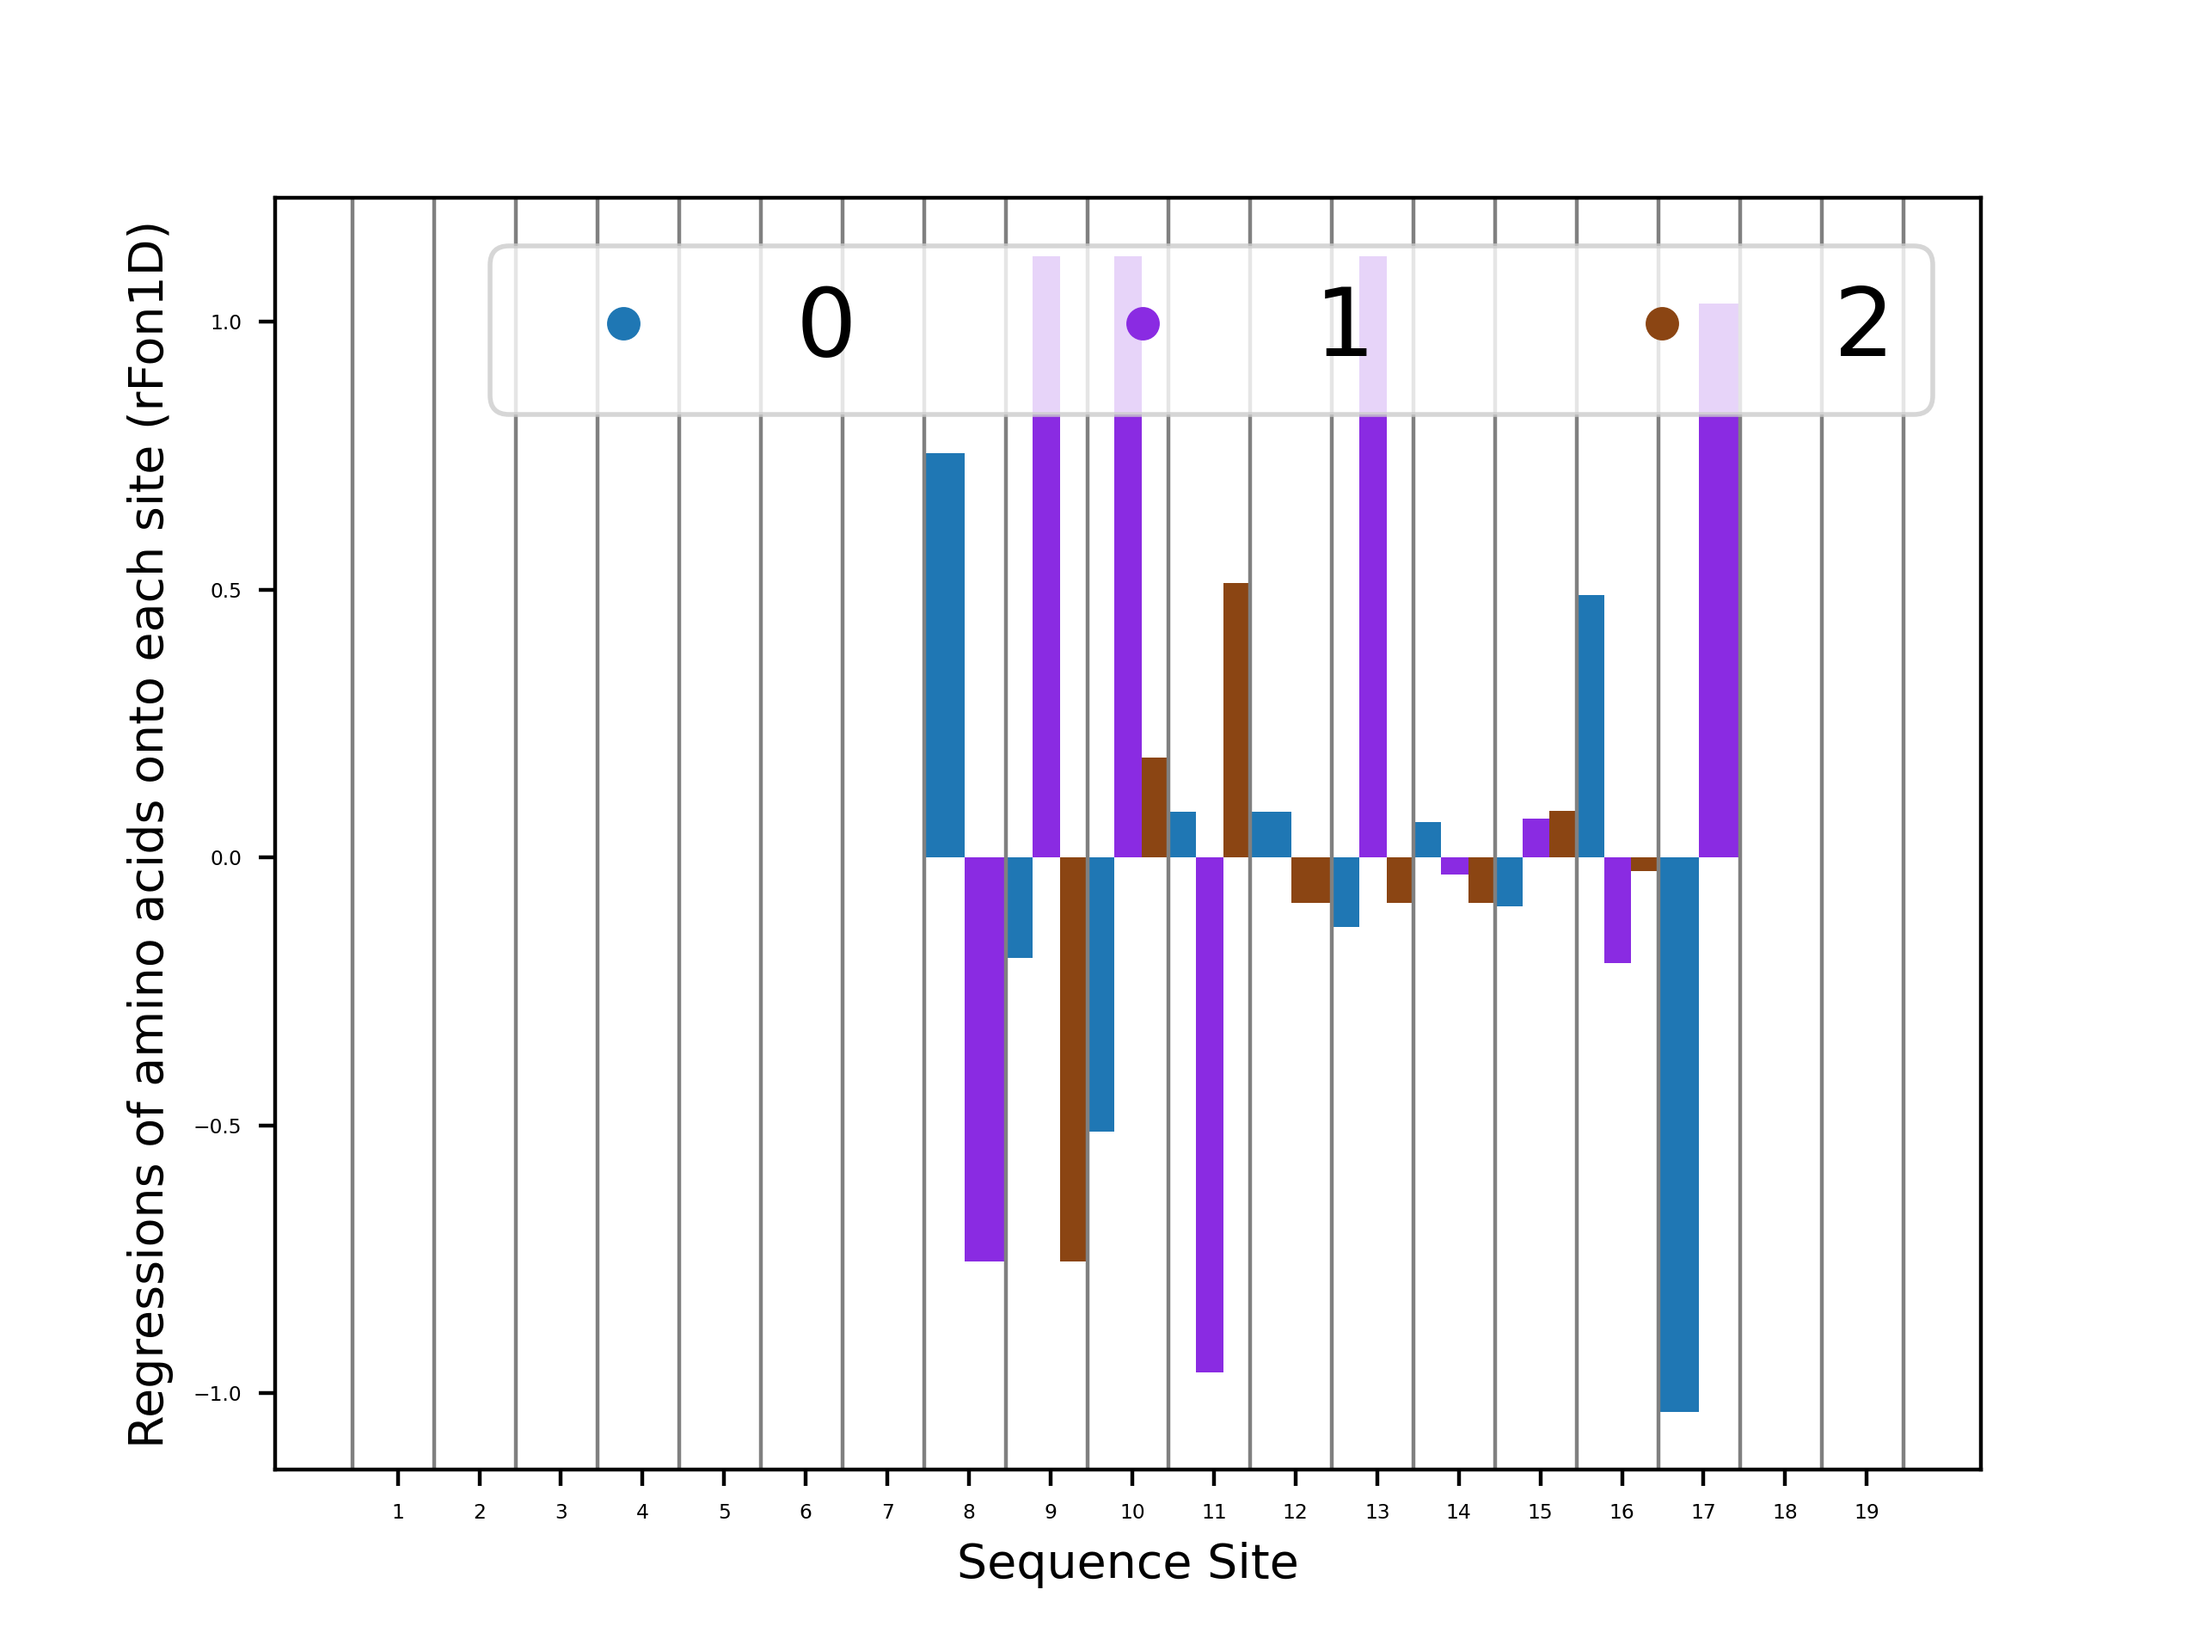
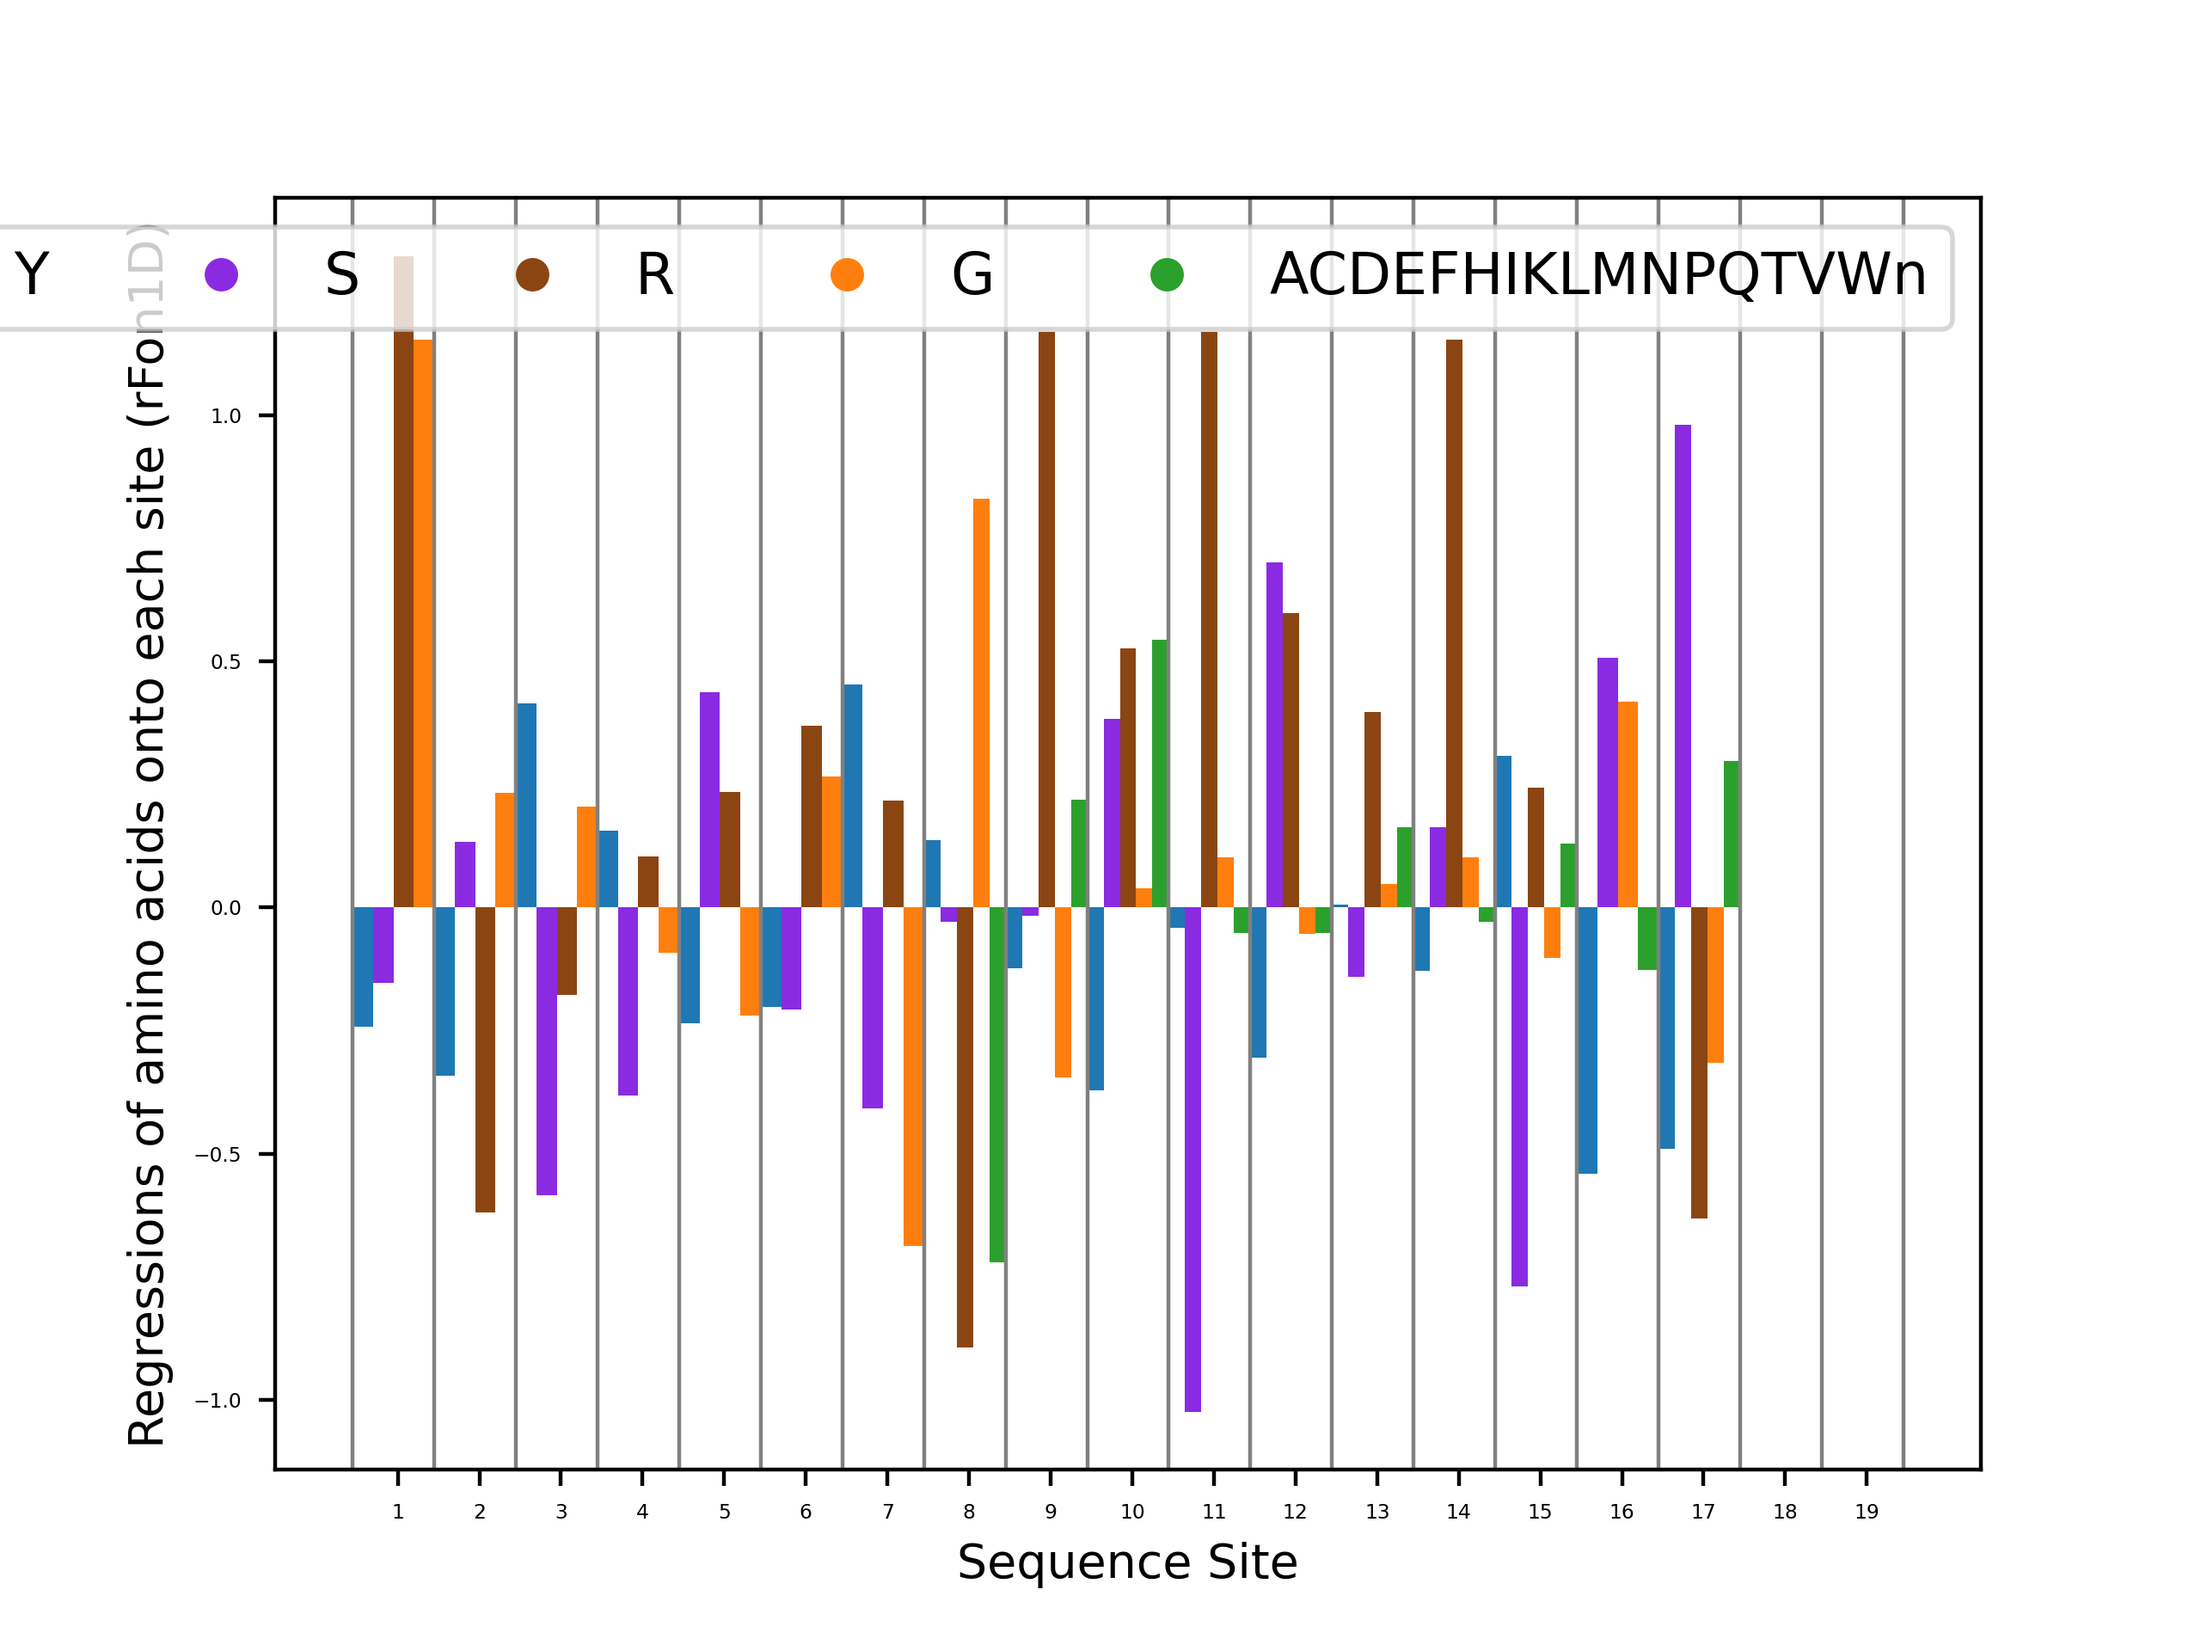
Plotting fixes

Changed region(s): [[0.0, 0.125, 0.9062, 0.875]]

diff --git a/ortho_seq_code/orthogonal_polynomial.py b/ortho_seq_code/orthogonal_polynomial.py
@@ -179,7 +179,7 @@ def orthogonal_polynomial(
     P = np.zeros((sites, pop_size, dm))
     cov = np.zeros((sites, sites, dm, dm))
 
-    if "," not in alphbt_input:
+    if alphbt_input is None or "," not in alphbt_input:
         print(alphabets)
     else:
         print(custom_dict)
@@ -1036,13 +1036,16 @@ def orthogonal_polynomial(
             dim = dm
         else:
             dim = dm // 3
-        ax.legend(markers, alpb_d.keys(), loc=1, ncol=dim, prop={"size": 60 / dm})
+        ax.legend(markers, alphabets, loc=1, ncol=dim, prop={"size": 60 / dm})
         ax.tick_params(
             width=0.8, labelsize=80 / sites
         )  # width of the tick and the size of the tick labels
         # Regressions of off values onto each site of target RNA (orthogonalized within)
         # plt.savefig('rFon1D_off_star.png', bbox_inches='tight')
-        plt.xlabel("Sequence Site")
+        if alphbt_input is None or "," not in alphbt_input:
+            plt.xlabel("Sequence Site")
+        else:
+            plt.xlabel("Sequence Site\n" + str(custom_dict))
         # plt.title("")
         if "protein" in molecule:
             plt.ylabel("Regressions of amino acids onto each site (rFon1D)")
